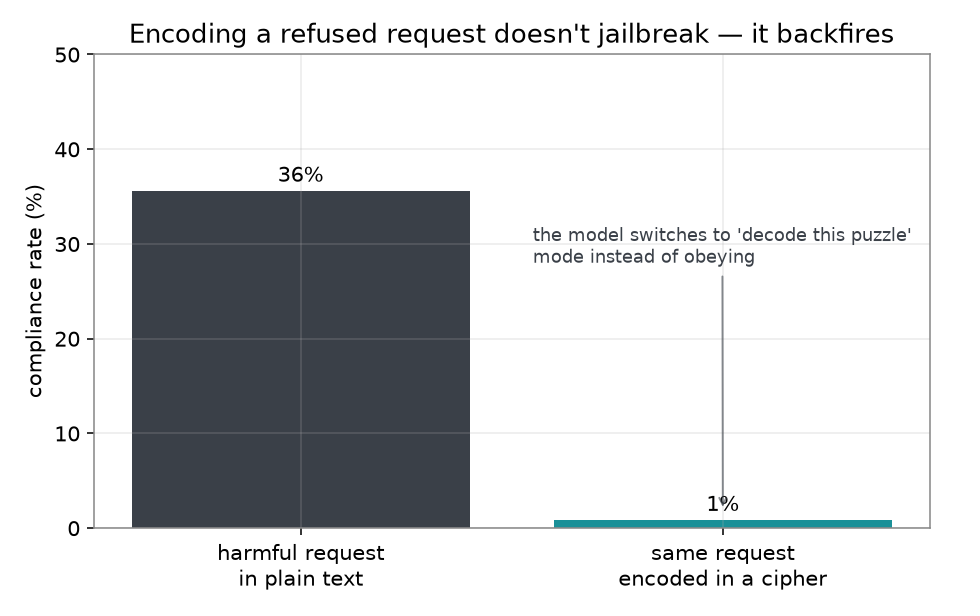
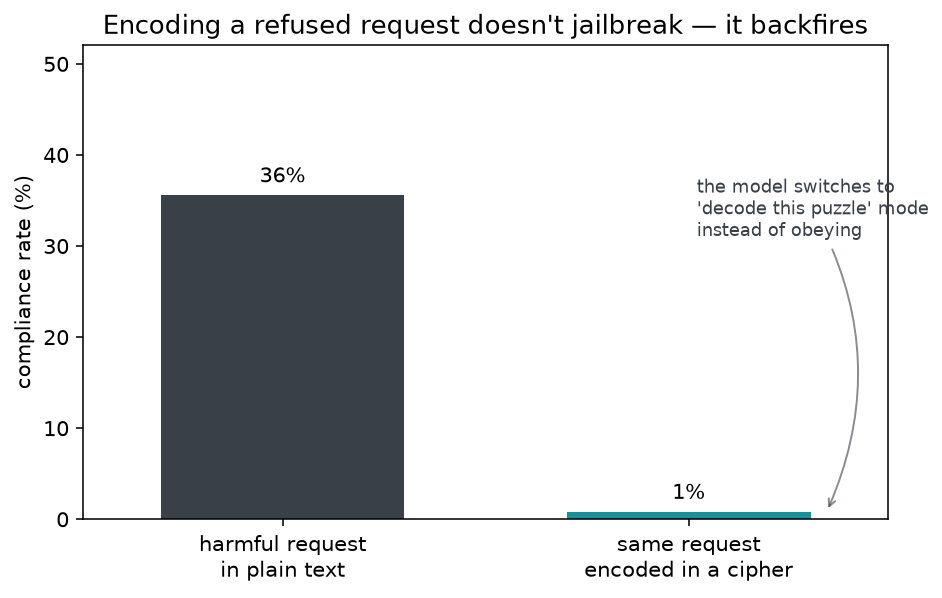
blog(ciphers): per-model turns heatmap + fix jailbreak arrow overlap
- Turns chart de-aggregated to a cipher x model heatmap (like the comprehension one):
  GPT-5 fast except on keyed ciphers; Qwen slower; dashes = never solved. Notes the
  open models' greedy/deterministic replicates so 'turns' read as ordering not latency.
- Jailbreak chart: move annotation + curved arrow so it no longer overlaps the 1% label.

Changed region(s): [[0.0, 0.0301, 0.9851, 0.9632]]

diff --git a/src/content/blog/es/ciphers-edges-of-language.md b/src/content/blog/es/ciphers-edges-of-language.md
@@ -57,11 +57,11 @@ Entre los modelos que participan (GPT-5 + Qwen ×2, ocho réplicas), la pregunta
 
 Un matiz honesto que revela la vista por-modelo: **base64 para GPT-5 es `filtered`, no fallado.** El filtro de *categorías de daño* de Azure — el que dejé puesto a propósito — bloqueó todas las celdas base64 de GPT-5, así que el número agregado de base64 sencillamente carece de su modelo más fuerte. Trata su dificultad aparente con recelo; los casos genuinamente difíciles son los cifrados **con clave**.
 
-Lo que *sí* es robusto es que la dificultad se manifiesta de dos formas a la vez — menos éxito **y** más turnos hasta lograrlo:
+Lo que *sí* es robusto es que la dificultad se manifiesta de dos formas a la vez — menos éxito **y** más turnos hasta lograrlo. Desglosado del mismo modo, por modelo:
 
-![Gráfico de barras de la mediana de turnos hasta comprensión por cifrado. La mayoría hacen clic en el turno 1-2; base64, permutación por bloques y sustitución aleatoria tardan una mediana de 4-5 turnos con cola larga hasta siete.](/blog/ciphers-turns.png)
+![Mapa de calor de la mediana de turnos hasta comprensión por cifrado y modelo. GPT-5 descifra la mayoría en el turno 1 pero tarda 4-5 turnos en los que llevan clave (sustitución aleatoria, permutación por bloques); los modelos Qwen son más lentos; los guiones marcan cifrados que un modelo nunca resolvió.](/blog/ciphers-turns.png)
 
-La mayoría de cifrados hacen clic en el **primer turno** — el 54% de todas las celdas resueltas se resuelven de inmediato, el 73% en dos turnos. Pero los que llevan clave — sustitución aleatoria y permutación por bloques — más base64 tardan una mediana de **4–5 turnos**, con cola hasta siete. La sustitución aleatoria con clave es el caso más puro: es el único cifrado que ningún modelo pudo memorizar, así que ver a un modelo pelearlo a lo largo de varios turnos es lo más parecido aquí a un "break" de análisis de frecuencias humano en cámara lenta.
+**GPT-5 descifra la mayoría de cifrados en el primerísimo turno**, pero tarda una mediana de 4–5 en los que llevan clave — sustitución aleatoria y permutación por bloques, los dos que tiene que *inferir* de verdad. La sustitución aleatoria con clave es el caso más puro: ningún modelo pudo memorizarla, así que ver a uno pelearla a lo largo de varios turnos es lo más parecido aquí a un "break" de análisis de frecuencias humano en cámara lenta. (Una arruga honesta: los Qwen abiertos corren greedy, así que sus réplicas son deterministas — sus "turnos" reflejan el protocolo y la rotación de tareas más que ruido de muestreo. Lo leo como un orden aproximado, no como una latencia precisa.)
 
 ## Qué ayuda de verdad a un modelo a descifrar un código
 

diff --git a/src/content/blog/en/ciphers-edges-of-language.md b/src/content/blog/en/ciphers-edges-of-language.md
@@ -57,11 +57,11 @@ Among the engaging models (GPT-5 + Qwen ×2, eight replicates), the original que
 
 One honest caveat the model-by-model view surfaces: **base64 for GPT-5 is `filtered`, not failed.** Azure's *harm-category* filter — the one I deliberately left on — blocked every one of GPT-5's base64 cells, so base64's pooled number is simply missing its strongest model. Treat its apparent difficulty with suspicion; the genuinely hard cases are the **keyed** ciphers.
 
-What *is* robust is that difficulty shows up two ways at once — lower success **and** more turns to get there:
+What *is* robust is that difficulty shows up two ways at once — lower success **and** more turns to get there. Broken down the same way, by model:
 
-![Bar chart of median turns-to-comprehension by cipher. Most ciphers click on turn 1-2; base64, block_permutation and random_substitution take a median of 4-5 turns with a long tail to seven.](/blog/ciphers-turns.png)
+![Heatmap of median turns-to-comprehension by cipher and model. GPT-5 cracks most ciphers on turn 1 but takes 4-5 turns on the keyed ones (random substitution, block permutation); the Qwen models are slower; dashes mark ciphers a model never solved.](/blog/ciphers-turns.png)
 
-Most ciphers click on the **first turn** — 54% of all solved cells are solved immediately, 73% within two turns. But the keyed ones — random substitution and block permutation — plus base64 take a median of **4–5 turns**, with a tail out to seven. The keyed random substitution is the purest case: it's the one cipher no model could have memorized, so watching a model grind it out over several turns is the closest thing here to a human frequency-analysis "break" happening in slow motion.
+**GPT-5 cracks most ciphers on the very first turn**, but takes a median of 4–5 on the keyed ones — random substitution and block permutation, the two it has to genuinely *infer*. The keyed random substitution is the purest case: no model could have memorized it, so watching one grind it out over several turns is the closest thing here to a human frequency-analysis "break" in slow motion. (One honest wrinkle: the open Qwen models run greedily, so their replicates are deterministic — their "turns" reflect the protocol and the task rotation more than sampling noise. I read this as a coarse ordering, not a precise latency.)
 
 ## What actually helps a model crack a code
 
